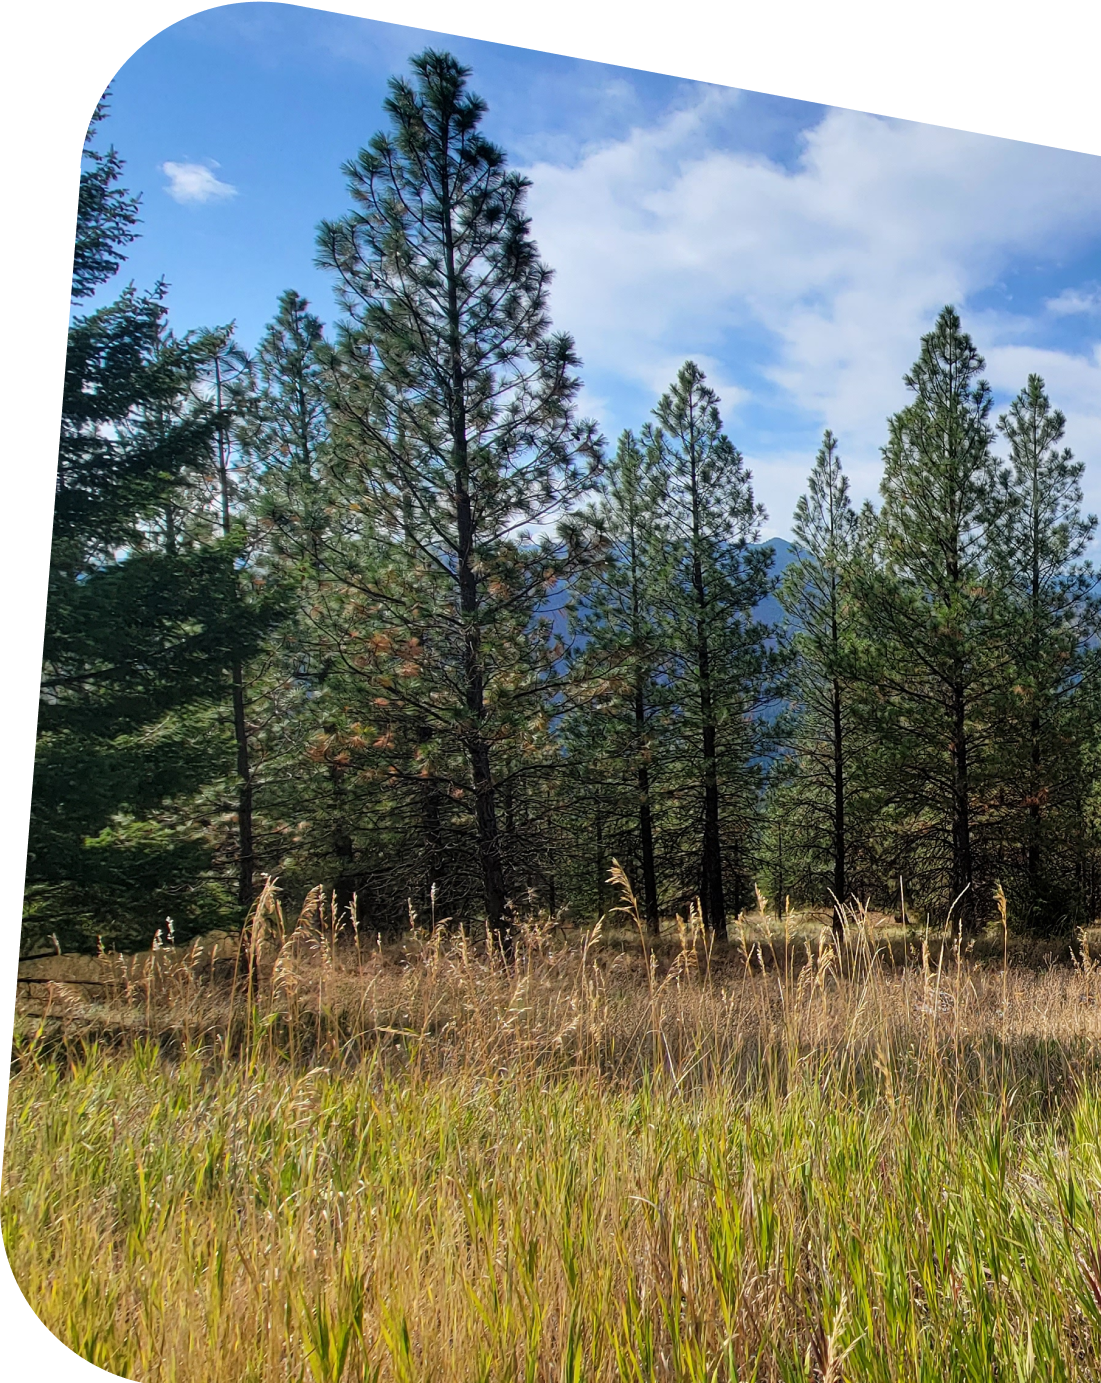
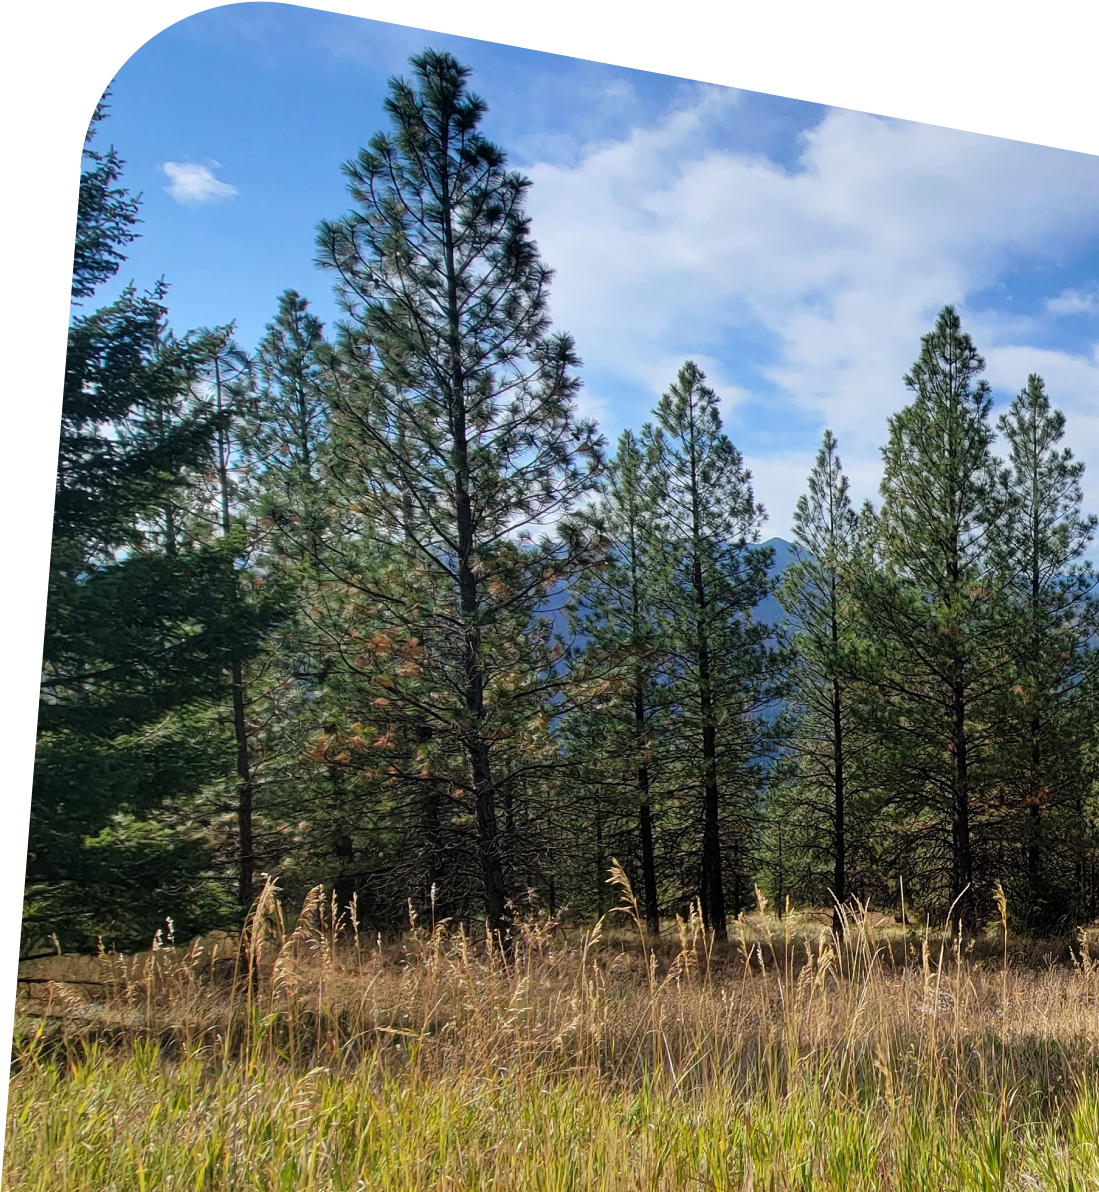
fix paddings

diff --git a/src/components/landing/LandingMain.tsx b/src/components/landing/LandingMain.tsx
@@ -7,8 +7,8 @@ const LandingMain = () => (
       <h1 className="font-bricolage text-green-800 font-extrabold text-4xl text-center">Value, buy, and sell vacant land</h1>
       <Button classNames="py-6">Value My Land</Button>
     </div>
-    <div className="relative w-full h-[550px]">
-      <Image alt="" src="/home-mobile.png" layout="fill" className="!top-10 !left-4" />
+    <div className="relative w-full h-[100%] overflow-hidden mt-10">
+      <Image alt="" src="/home-mobile.png" layout="fill" className="!left-4" />
     </div>
   </div>
 );
